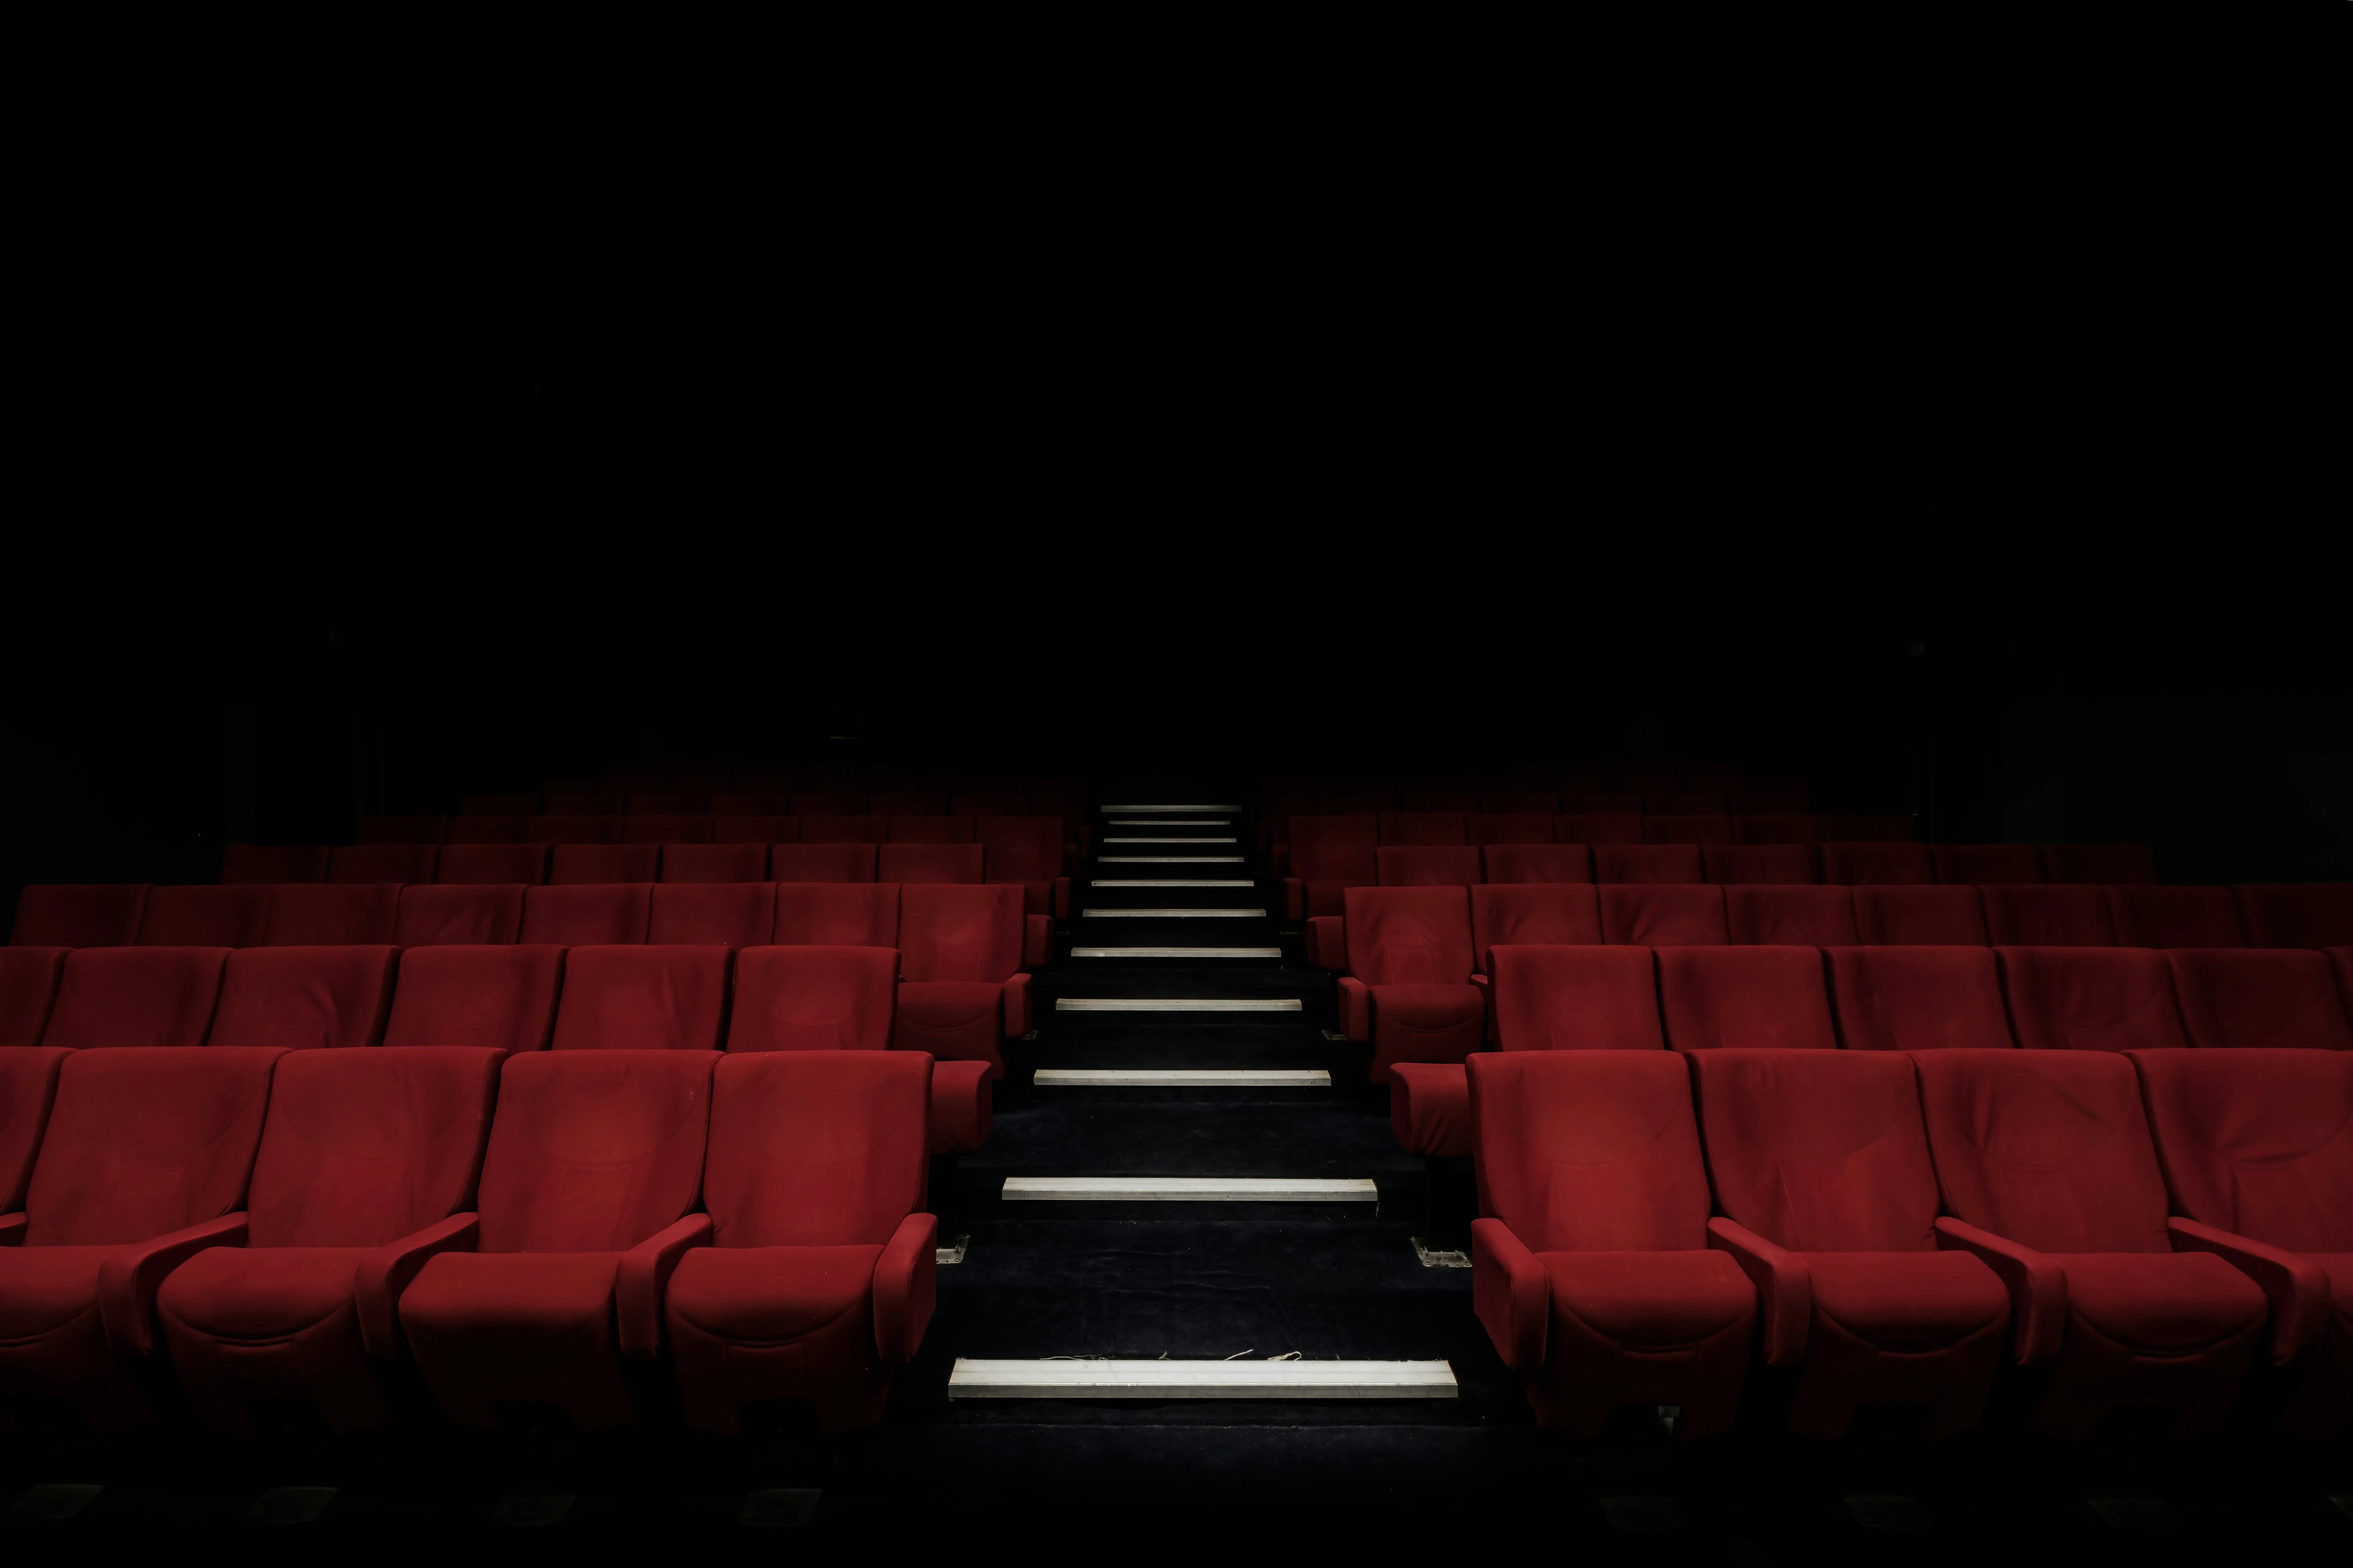
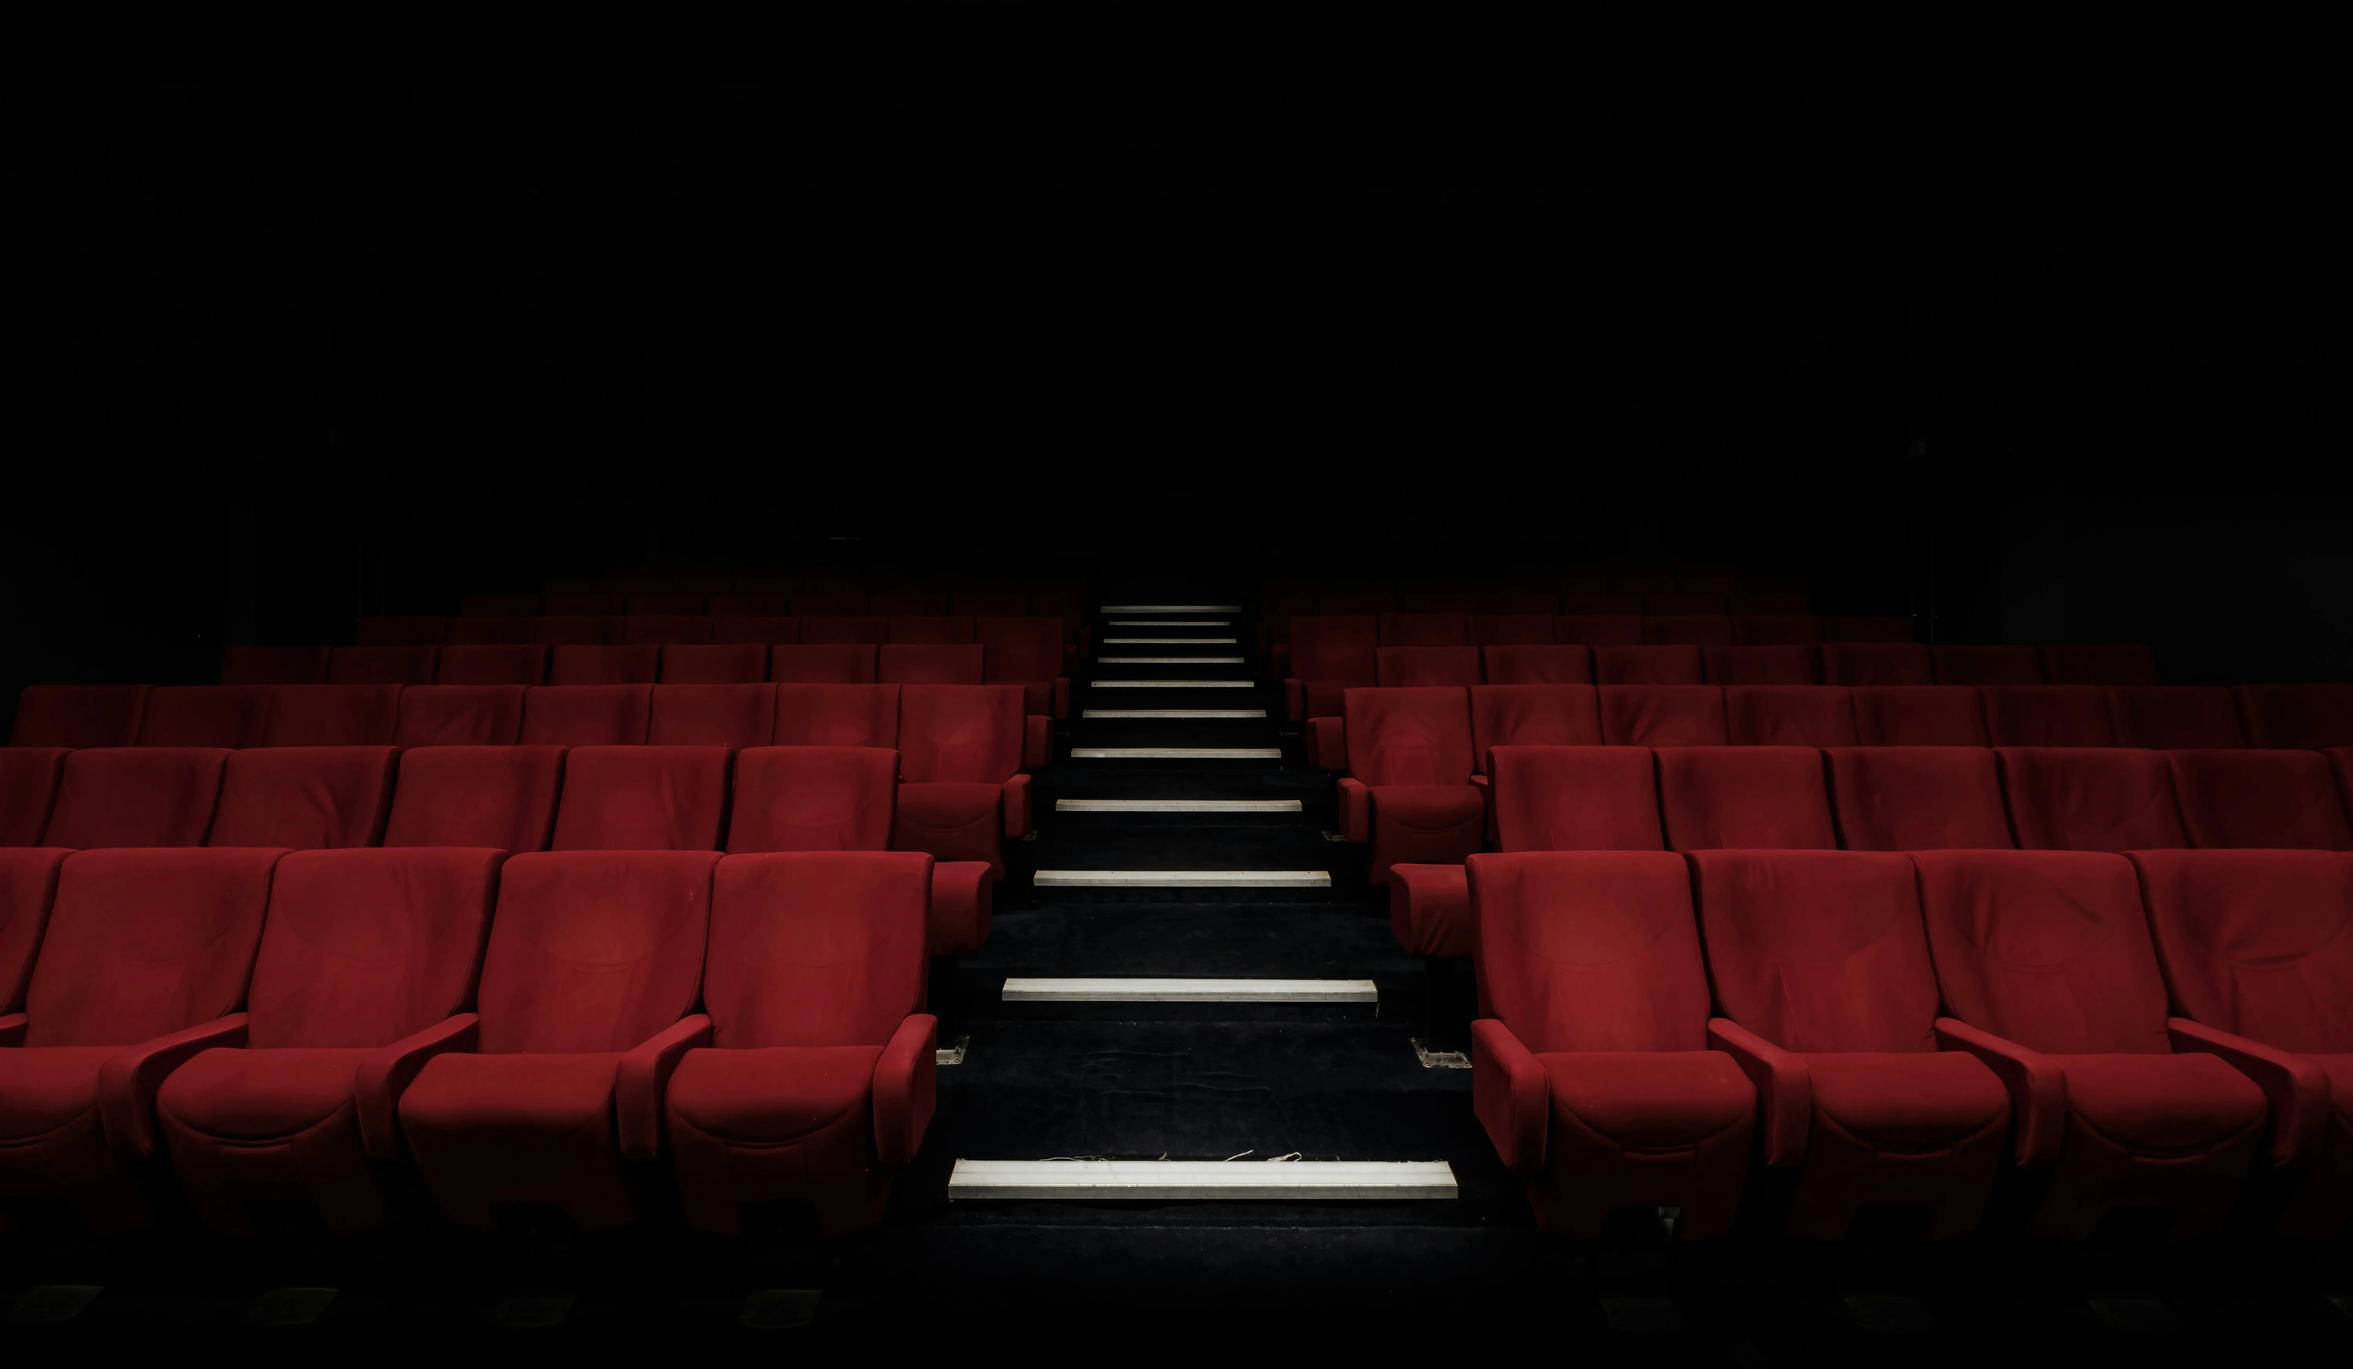
Adding ignup & login page

Changed region(s): [[0.0, 0.4371, 1.0, 0.9055]]

diff --git a/frontend/src/component/Signup.jsx b/frontend/src/component/Signup.jsx
@@ -1,18 +1,71 @@
 import React from 'react'
 import bg from '../assets/bg.webp'
-import {motion} from 'framer-motion'
-function Singup(){
+import signimg from '../assets/signupImage2.png'
+import { motion } from 'framer-motion'
+function Singup() {
   return (
-    <div className='relative min-h-screen pb-[1vh]'>
-      <motion.div
-          animate={{ opacity: [1, 1, 0.8, 0.6, 1, 1] }}
-          transition={{ duration: 6, repeat: Infinity }}
-          className="absolute inset-0 bg-cover bg-center bg-fixed"
-          style={{ backgroundImage: `url(${bg})` }}
-        />
-        <div className='relative z-10 text-white pt-[20vh] w-[90%] min-h-screen flex flex-col justify-start items-start gap-[4vh] m-auto'>
+    <div className='relative min-h-screen'>
+      <div
+        className="absolute inset-0 bg-cover bg-center bg-fixed"
+        style={{ backgroundImage: `url(${bg})` }}
+      />
+      <div className='relative z-10 text-white pt-[20vh] w-[90%] min-h-screen flex flex-col justify-start items-center m-auto'>
+        <div className="w-[85%] h-[75vh] flex justify-center">
+          <div className="w-[68%] h-[75vh] max-w-md bg-black/40 backdrop-blur-md border-t border-l border-b border-white/50 py-5 px-5 shadow-2xl rounded-bl-xl rounded-tl-xl">
+            <div className="text-center mb-6">
+              <h1 className="text-3xl sm:text-4xl font-bold text-[#fed500]">
+                WatchWise
+              </h1>
+              <p className="text-gray-400 text-sm sm:text-base">
+                Create your account
+              </p>
+            </div>
 
+            <form className="space-y-4">
+              <input
+                type="text"
+                placeholder="Full Name"
+                className="w-full px-4 py-3 text-sm rounded-xl bg-white/5 border border-white/10 outline-none focus:border-[#fed500]"
+              />
+
+              <input
+                type="email"
+                placeholder="Email Address"
+                className="w-full px-4 py-3 text-sm rounded-xl bg-white/5 border border-white/10 outline-none focus:border-[#fed500]"
+              />
+
+              <input
+                type="password"
+                placeholder="Password"
+                className="w-full px-4 py-3 text-sm rounded-xl bg-white/5 border border-white/10 outline-none focus:border-[#fed500]"
+              />
+
+              <input
+                type="password"
+                placeholder="Confirm Password"
+                className="w-full px-4 py-3 text-sm rounded-xl bg-white/5 border border-white/10 outline-none focus:border-[#fed500]"
+              />
+
+              <button
+                type="submit"
+                className="w-full py-3 text-sm rounded-xl bg-[#fed500] text-black font-semibold hover:bg-yellow-200 transition"
+              >
+                Create Account
+              </button>
+            </form>
+
+            <p className="text-center text-sm text-gray-400 mt-6">
+              Already have an account?{" "}
+              <a href='' className="text-[#fed500] cursor-pointer hover:text-yellow-200">
+                Login
+              </a>
+            </p>
+          </div>
+          <div className='w-[32%] h-full border border-white rounded-br-xl rounded-tr-xl overflow-hidden'>
+            <img src={signimg} alt="" className='w-full h-full' />
+          </div>
         </div>
+      </div>
     </div>
   )
 }

diff --git a/frontend/src/component/Login.jsx b/frontend/src/component/Login.jsx
@@ -1,18 +1,64 @@
 import React from 'react'
 import bg from '../assets/bg.webp'
-import {motion} from 'framer-motion'
-function Login(){
+import { motion } from 'framer-motion'
+function Login() {
   return (
-    <div className='relative min-h-screen pb-[1vh]'>
-      <motion.div
-          animate={{ opacity: [1, 1, 0.8, 0.6, 1, 1] }}
-          transition={{ duration: 6, repeat: Infinity }}
-          className="absolute inset-0 bg-cover bg-center bg-fixed"
-          style={{ backgroundImage: `url(${bg})` }}
-        />
-        <div className='relative z-10 text-white pt-[20vh] w-[90%] min-h-screen flex flex-col justify-start items-start gap-[4vh] m-auto'>
+    <div className='relative min-h-screen'>
+      <div
+        className="absolute inset-0 bg-cover bg-center bg-fixed"
+        style={{ backgroundImage: `url(${bg})` }}
+      />
+      <div className='relative z-10 text-white pt-[25vh] w-[90%] min-h-screen flex flex-col justify-start items-start gap-[4vh] m-auto'>
+        <div className="w-full max-w-md mx-auto bg-black/40 backdrop-blur-md border border-white/50 rounded-3xl p-8 shadow-2xl">
+
+          <div className="text-center mb-8">
+            <h1 className="text-3xl sm:text-4xl font-bold text-[#fed500]">
+              Welcome Back
+            </h1>
+
+            <p className="text-gray-400 mt-2 text-sm sm:text-base">
+              Login to your account
+            </p>
+          </div>
+
+          <form className="space-y-5">
+            <input
+              type="email"
+              placeholder="Email Address"
+              className="w-full px-4 py-3 text-sm rounded-xl bg-white/5 border border-white/10 outline-none focus:border-[#fed500]"/>
+
+            <input
+              type="password"
+              placeholder="Password"
+              className="w-full px-4 py-3 text-sm rounded-xl bg-white/5 border border-white/10 outline-none focus:border-[#fed500]"
+            />
+
+            <div className="flex justify-end">
+              <button
+                type="button"
+                className="text-xs text-gray-400 hover:text-[#FFD700]"
+              >
+                Forgot Password?
+              </button>
+            </div>
+
+            <button
+              type="submit"
+              className="w-full py-3 text-sm rounded-xl bg-[#fed500] text-black font-semibold hover:bg-yellow-200 transition"
+            >
+              Login
+            </button>
+          </form>
+
+          <p className="text-center text-sm text-gray-400 mt-6">
+            Don't have an account?{" "}
+            <span className="text-[#fed500] cursor-pointer hover:text-yellow-200">
+              Sign Up
+            </span>
+          </p>
 
         </div>
+      </div>
     </div>
   )
 }

diff --git a/frontend/src/component/About.jsx b/frontend/src/component/About.jsx
@@ -20,12 +20,12 @@ function About() {
         <div className="relative z-10 text-white pt-[20vh] w-[90%] min-h-screen flex flex-col justify-start items-start m-auto">
           <Particles />
           <div className='text-center w-full'>
-            <h1 className='text-2xl font-heading'>People often waste time deciding what to watch and struggle to find content matching their mood.</h1>
-            <h1 className='font-para'><span className='text-[#FED500] font-heading font-semibold'>WatchWise</span> uses AI to analyze user mood and preferences to suggest personalized movie recommendations instantly.</h1>
+            <h1 className='text-2xl font-heading'>Stop Wasting Time Choosing Movies</h1>
+            <h1 className='font-para'><span className='text-[#FED500] font-heading font-semibold'>WatchWise</span> AI finds the right movie for your mood.</h1>
           </div>
-          <div className='w-full h-full flex flex-col justify-center items-center mt-[10vh] pb-[15vh]'>
+          <div className='w-full h-full flex flex-col justify-center items-center mt-[10vh]'>
             <div className='flex flex-col justify-center items-center mb-[2vh]'>
-              <h1 className='text-center text-5xl font-heading text-[#fed500]'>How It Work</h1>
+              <h1 className='text-center text-5xl font-heading text-white'>How It Work</h1>
               <span className='text-xs font-para text-[#fed500]'>scroll to see step</span>
             </div>
             <div className='w-[60vw] h-[80vh] flex justify-around items-center'>

diff --git a/frontend/src/component/Recommend.jsx b/frontend/src/component/Recommend.jsx
@@ -198,7 +198,7 @@ function Recommend() {
                     initial={{ opacity: 0, scale: 0.9 }}
                     animate={{ opacity: 1, scale: 1 }}
                     transition={{ delay: i * 0.2 }}
-                    className="flex flex-col w-auto h-full bg-black/40 border rounded-2xl overflow-hidden shadow-lg"
+                    className="flex flex-col w-[20%] h-full bg-black/40 border rounded-2xl overflow-hidden shadow-lg"
                   >
                     <div className="relative h-72">
                       <img
